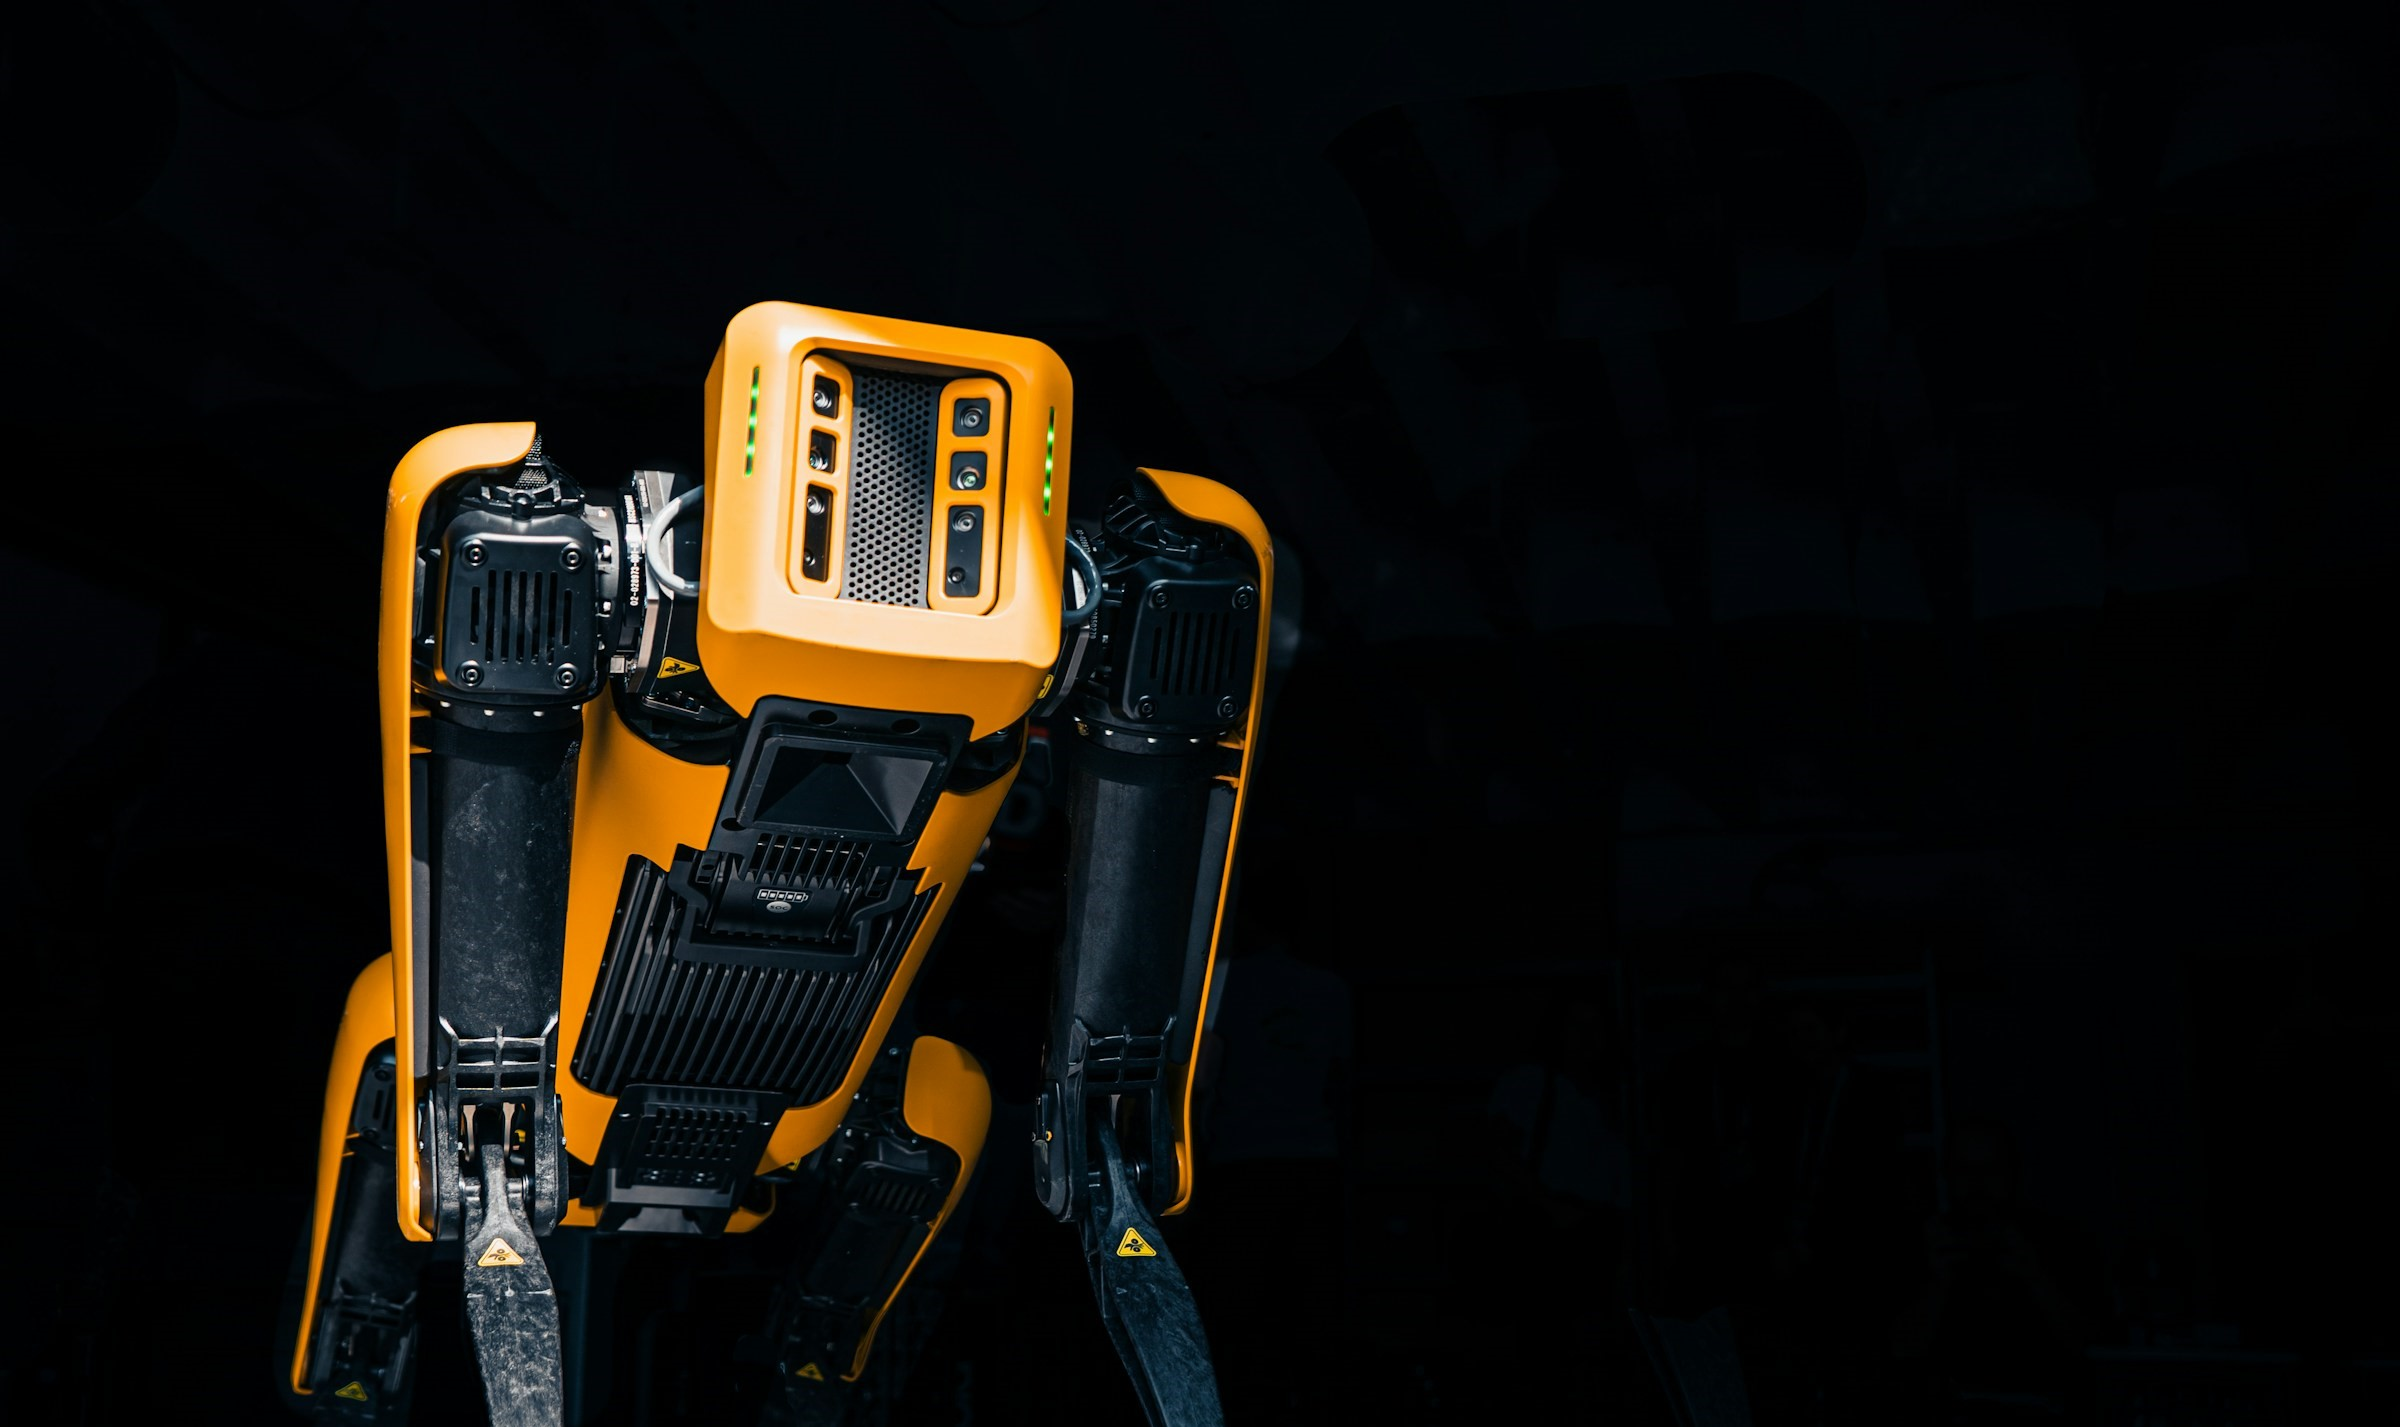
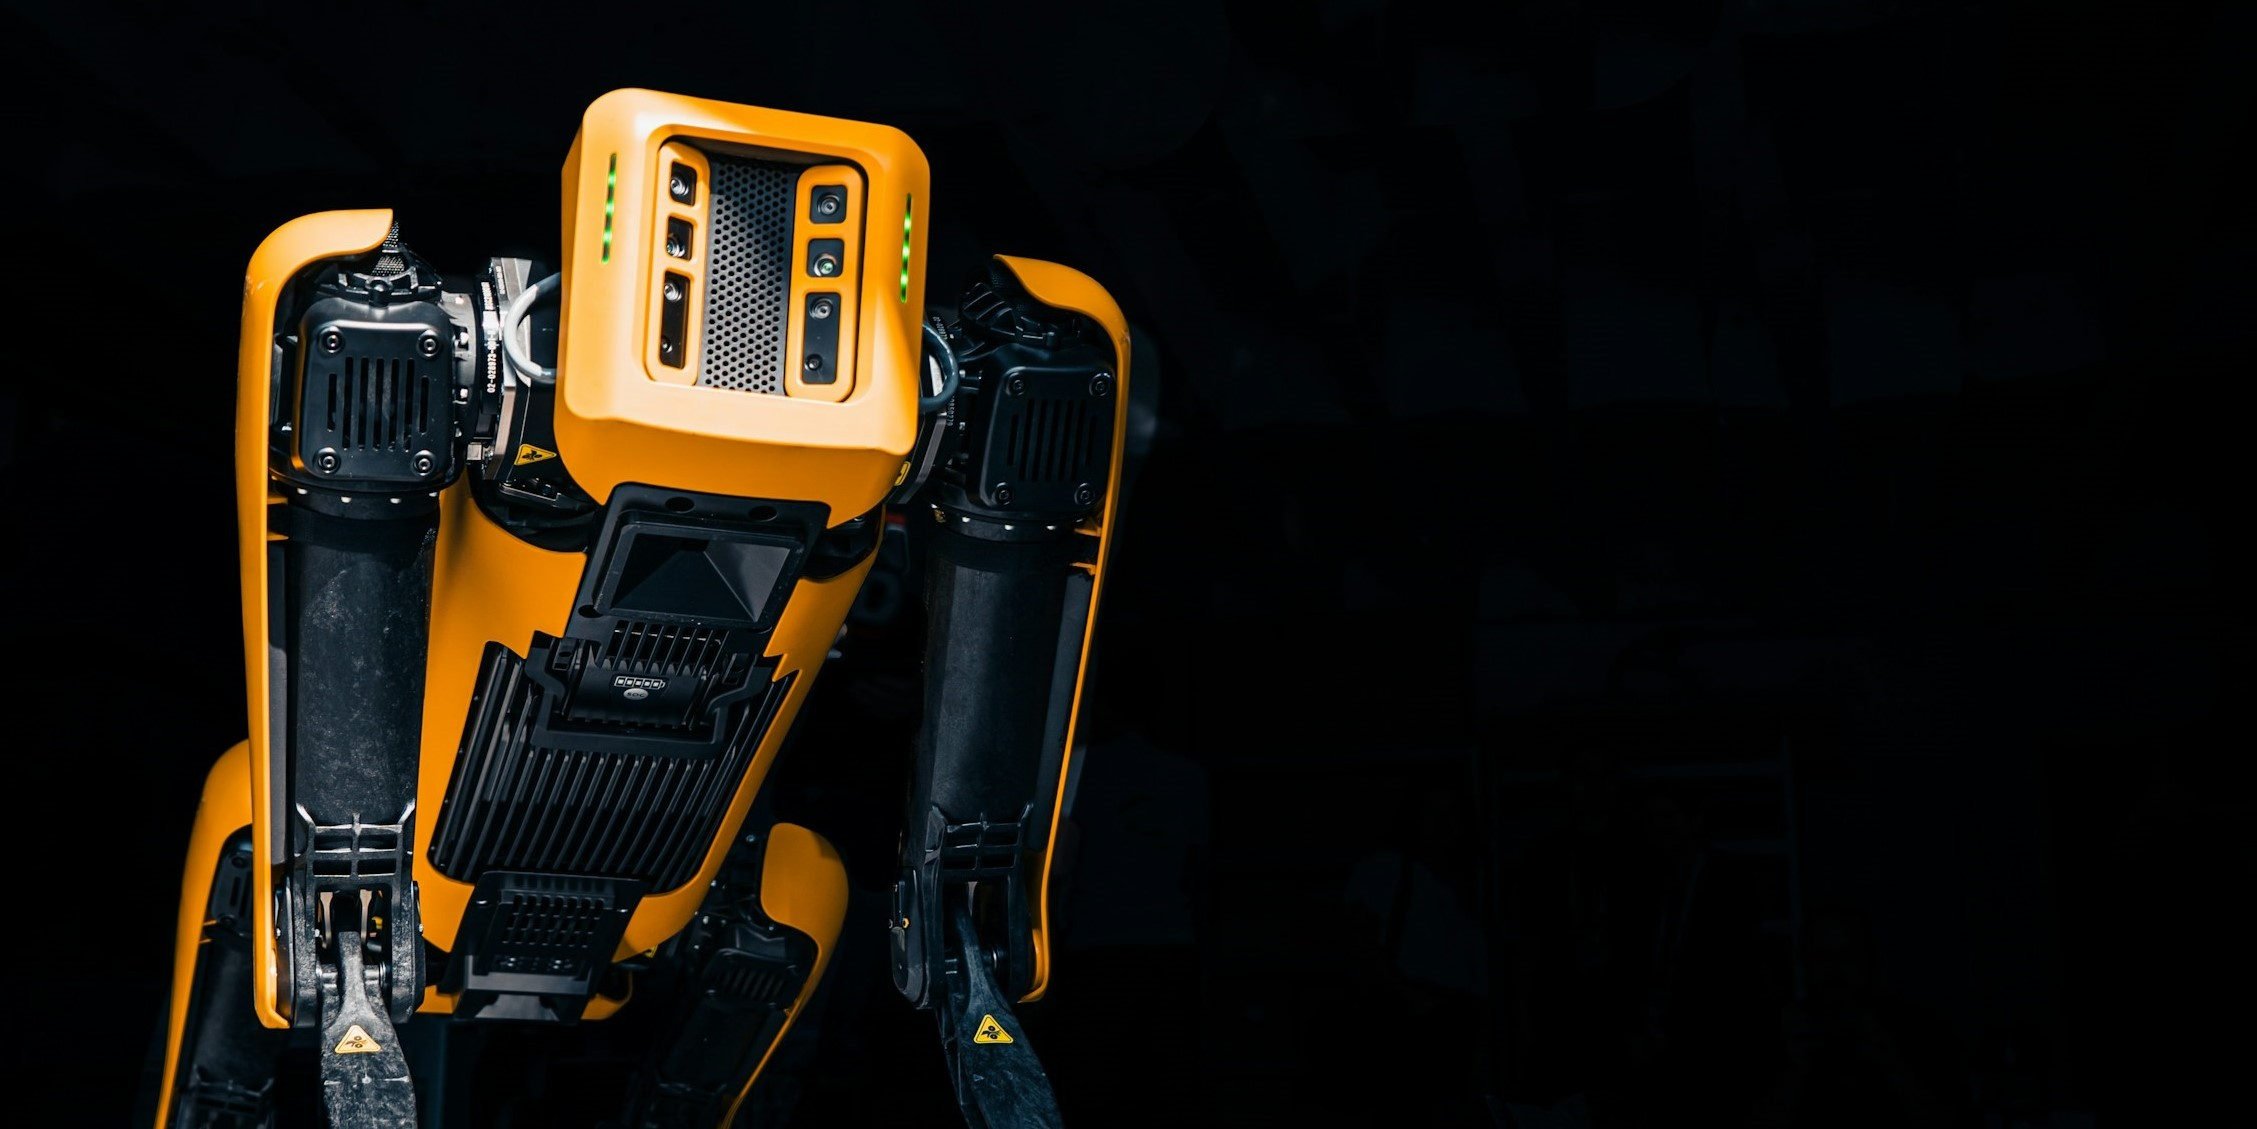
More updates on the website

Changed region(s): [[0.062, 0.062, 0.5583, 1.0]]

diff --git a/index.html b/index.html
@@ -4,7 +4,7 @@ layout: default
 
 <style>
     body {
-        background: linear-gradient(rgba(0, 0, 0, 0.7), rgba(0, 0, 0, 0.7)), url('../img/spot2.jpg');
+        background: linear-gradient(rgba(0, 0, 0, 0.9), rgba(0, 0, 0, 0.85)), url('../img/spot4.jpg');
         background-repeat: no-repeat; 
         background-position: center;
         background-attachment: fixed;       
@@ -14,8 +14,7 @@ layout: default
     }
 
     .header {
-        padding-top: 20px;
-        text-align: left;
+        margin-top: 30px;
     }
 
     .name {
@@ -24,7 +23,7 @@ layout: default
     }
 
     .description {
-        font-size: 36px;
+        font-size: 28px;
         font-weight: inherit;
     }
 
@@ -33,7 +32,6 @@ layout: default
         height: 75px;
         display: flex;
         justify-content: center;
-        background-color: rgb(0, 0, 0);
         align-items: center;
         border-radius: 45%;
         color: white;
@@ -46,28 +44,62 @@ layout: default
         background-color: rgb(43, 43, 43);  
     }
 
-    @media(min-width:992px) {
-        .header {
-            padding-top: 20vh;
-            padding-bottom: 112px;    
-        }
-
-        span {
-            padding: 10px;
-            background-color: black;
-            border-radius: 15px;
-        }
+    .recent-work {
+        padding: 5px;
+        margin: 5px;
+        background-color: rgb(0, 0, 0);
     }
+
+    .card {
+        margin-top: 30px;
+        text-align: left;
+        color: rgb(0, 0, 0);
+    }
+
+    .card-header {
+        font-size: 18px;
+        font-weight: 400;
+        background-color: rgb(171, 171, 171);
+    }
+
+    .card-title {
+        margin-top: 12px;
+        font-weight: 400;
+    }
+    
+    .card-body {
+        font-weight: inherit;
+        background-color: rgb(202, 202, 202);
+    }
+
 </style>
 
-<div class="header">
-    <h1 class="name"><span>Hello, I'm Felipe</span></h1>
-    <h3 class="description"><span>Assistant Professor at Louisiana State University</span></h4>
-    <h3 class="description"><span>Researcher in Software Engineering and Robotics</span></h4>
+<hr>
+<div class="row header">
+    <div class="col-xl-8">
+        <h2 class="name"><span><i>Hello, I'm Felipe</i></span></h2>
+        <h3 class="description"><span>Assistant Professor at Louisiana State University</span></h3>
+        <h3 class="description"><span>Researcher in Software Engineering and Robotics</span></h3>
         <div class="d-flex">
             <a href="https://www.linkedin.com/in/fronchat/" target="_blank" class="social-button"><i class="fab fa-linkedin-in fa-2x"></i></a>
+            <a href="https://orcid.org/0000-0003-2104-6676" target="_blank" class="social-button"><i class="fa-brands fa-orcid fa-2x"></i></a>
             <a href="https://github.com/fronchetti/" target="_blank" class="social-button"><i class="fab fa-github fa-2x"></i></a>
             <a href="https://scholar.google.com/citations?hl=en&user=-6jIjG8AAAAJ" target="_blank" class="social-button"><i class="fa-brands fa-google-scholar fa-2x"></i></a>
-            <a href="mailto:ffronchetti@lsu.edu" target="_blank" class="social-button"><i class="far fa-envelope fa-2x"></i></a>
+            <a href="mailto:ffronchetti@lsu.edu" target="_blank" class="social-button"><i class="fa-solid fa-envelope fa-2x"></i></a>
         </div>
+    </div>
+</div>
+<hr>
+<div class="row header"></div>
+    <div class="col-xl-8">
+        <h3>Recent Publications</h3>
+        <div class="card border-dark mb-5" style="max-width: 22rem;">
+            <div class="card-header">ICSE 2024</div>
+            <div class="card-body">
+              <img src="img/duplo.jpg" class="img-fluid" alt="...">
+              <h4 class="card-title">Block-based Programming for Two-Armed Robots: A Comparative Study</h4>
+              <p>This paper presents Duplo, a block-based programming tool that enhances accessibility for non-professionals to program coordinated tasks in two-armed robots.</p>
+            </div>
+        </div>
+    </div>
 </div>

diff --git a/_site/index.html b/_site/index.html
@@ -44,7 +44,7 @@
     <div class="container-lg">
       <style>
     body {
-        background: linear-gradient(rgba(0, 0, 0, 0.7), rgba(0, 0, 0, 0.7)), url('../img/spot2.jpg');
+        background: linear-gradient(rgba(0, 0, 0, 0.9), rgba(0, 0, 0, 0.85)), url('../img/spot4.jpg');
         background-repeat: no-repeat; 
         background-position: center;
         background-attachment: fixed;       
@@ -54,8 +54,7 @@
     }
 
     .header {
-        padding-top: 20px;
-        text-align: left;
+        margin-top: 30px;
     }
 
     .name {
@@ -64,7 +63,7 @@
     }
 
     .description {
-        font-size: 36px;
+        font-size: 28px;
         font-weight: inherit;
     }
 
@@ -73,7 +72,6 @@
         height: 75px;
         display: flex;
         justify-content: center;
-        background-color: rgb(0, 0, 0);
         align-items: center;
         border-radius: 45%;
         color: white;
@@ -86,30 +84,64 @@
         background-color: rgb(43, 43, 43);  
     }
 
-    @media(min-width:992px) {
-        .header {
-            padding-top: 20vh;
-            padding-bottom: 112px;    
-        }
-
-        span {
-            padding: 10px;
-            background-color: black;
-            border-radius: 15px;
-        }
+    .recent-work {
+        padding: 5px;
+        margin: 5px;
+        background-color: rgb(0, 0, 0);
     }
+
+    .card {
+        margin-top: 30px;
+        text-align: left;
+        color: rgb(0, 0, 0);
+    }
+
+    .card-header {
+        font-size: 18px;
+        font-weight: 400;
+        background-color: rgb(171, 171, 171);
+    }
+
+    .card-title {
+        margin-top: 12px;
+        font-weight: 400;
+    }
+    
+    .card-body {
+        font-weight: inherit;
+        background-color: rgb(202, 202, 202);
+    }
+
 </style>
 
-<div class="header">
-    <h1 class="name"><span>Hello, I'm Felipe</span></h1>
-    <h3 class="description"><span>Assistant Professor at Louisiana State University</span></h4>
-    <h3 class="description"><span>Researcher in Software Engineering and Robotics</span></h4>
+<hr>
+<div class="row header">
+    <div class="col-xl-8">
+        <h2 class="name"><span><i>Hello, I'm Felipe</i></span></h2>
+        <h3 class="description"><span>Assistant Professor at Louisiana State University</span></h3>
+        <h3 class="description"><span>Researcher in Software Engineering and Robotics</span></h3>
         <div class="d-flex">
             <a href="https://www.linkedin.com/in/fronchat/" target="_blank" class="social-button"><i class="fab fa-linkedin-in fa-2x"></i></a>
+            <a href="https://orcid.org/0000-0003-2104-6676" target="_blank" class="social-button"><i class="fa-brands fa-orcid fa-2x"></i></a>
             <a href="https://github.com/fronchetti/" target="_blank" class="social-button"><i class="fab fa-github fa-2x"></i></a>
             <a href="https://scholar.google.com/citations?hl=en&user=-6jIjG8AAAAJ" target="_blank" class="social-button"><i class="fa-brands fa-google-scholar fa-2x"></i></a>
-            <a href="mailto:ffronchetti@lsu.edu" target="_blank" class="social-button"><i class="far fa-envelope fa-2x"></i></a>
+            <a href="mailto:ffronchetti@lsu.edu" target="_blank" class="social-button"><i class="fa-solid fa-envelope fa-2x"></i></a>
         </div>
+    </div>
+</div>
+<hr>
+<div class="row header"></div>
+    <div class="col-xl-8">
+        <h3>Recent Publications</h3>
+        <div class="card border-dark mb-5" style="max-width: 22rem;">
+            <div class="card-header">ICSE 2024</div>
+            <div class="card-body">
+              <img src="img/duplo.jpg" class="img-fluid" alt="...">
+              <h4 class="card-title">Block-based Programming for Two-Armed Robots: A Comparative Study</h4>
+              <p>This paper presents Duplo, a block-based programming tool that enhances accessibility for non-professionals to program coordinated tasks in two-armed robots.</p>
+            </div>
+        </div>
+    </div>
 </div>
 
     </div>

diff --git a/curriculum.html b/curriculum.html
@@ -17,11 +17,11 @@ layout: default
 <h3>Education</h3>
 <ul>
 <li>(2020 - 2024) Ph.D. in Engineering, Virginia Commonwealth University, Richmond, USA.</li>
-<p>Worked on: <i>Exploring end-user environments for the control and programming of collaborative robots</i> (<a target="_blank" href="https://scholarscompass.vcu.edu/etd/7785/">Read</a>)</p>
+<p>Worked on: <i>Exploring end-user environments for the control and programming of collaborative robots</i> (<a target="_blank" href="https://scholarscompass.vcu.edu/etd/7785/"><i>Read</i></a>)</p>
 <li>(2018 - 2023) M.Sc. in Computer Science, University of São Paulo, São Paulo, Brazil.</li>
-<p>Worked on: <i>A classification model of documentation relevant for newcomers in open-source projects</i> (<a target="_blank" href="https://dl.acm.org/doi/abs/10.1145/3611643.3616288/">Read</a>)</p>
+<p>Worked on: <i>A classification model of documentation relevant for newcomers in open-source projects</i> (<a target="_blank" href="https://dl.acm.org/doi/abs/10.1145/3611643.3616288/"><i>Read</i></a>)</p>
 <li>(2013 - 2017) B.Sc. in Computer Science, Federal University of Technology - Paraná, Campo Mourão, Brazil.</li>
-<p>Worked on: <i>An exploratory study on onboarding factors in open-source projects</i> (<a target="_blank" href="https://link.springer.com/chapter/10.1007/978-3-030-20883-7_9/">Read</a>)</p>
+<p>Worked on: <i>An exploratory study on onboarding factors in open-source projects</i> (<a target="_blank" href="https://link.springer.com/chapter/10.1007/978-3-030-20883-7_9/"><i>Read</i></a>)</p>
 <li>(2011 - 2012) Technician in Occupational Health and Safety, National Service for Industrial Training, Cianorte, Brazil.</li>
 </ul>
 
@@ -43,7 +43,12 @@ layout: default
 <li>(2015) Research Scholarship, Brazilian National Council for Scientific and Technological Development (CNPq).</li>
 </ul>
 
-<p>You can also learn more accessing my <a href="files/Curriculum_Vitae.pdf" target="_blank">curriculum vitae</a>.</p>
-
+<h3>Downloads</h3>
+<ul>
+    <li><a href="files/Curriculum_Vitae.pdf" target="_blank"><i>Curriculum Vitae</i></a></li>
+    <li><a href="files/Research_Statement.pdf" target="_blank"><i>Research Statement</i></a></li>
+    <li><a href="files/Teaching_Statement.pdf" target="_blank"><i>Teaching Statement</i></a></li>
+    <li><a href="files/Service_Statement.pdf" target="_blank"><i>Service Statement</i></a></li>
+</ul>
 
 <hr>

diff --git a/_site/curriculum.html b/_site/curriculum.html
@@ -58,11 +58,11 @@
 <h3>Education</h3>
 <ul>
 <li>(2020 - 2024) Ph.D. in Engineering, Virginia Commonwealth University, Richmond, USA.</li>
-<p>Worked on: <i>Exploring end-user environments for the control and programming of collaborative robots</i> (<a target="_blank" href="https://scholarscompass.vcu.edu/etd/7785/">Read</a>)</p>
+<p>Worked on: <i>Exploring end-user environments for the control and programming of collaborative robots</i> (<a target="_blank" href="https://scholarscompass.vcu.edu/etd/7785/"><i>Read</i></a>)</p>
 <li>(2018 - 2023) M.Sc. in Computer Science, University of São Paulo, São Paulo, Brazil.</li>
-<p>Worked on: <i>A classification model of documentation relevant for newcomers in open-source projects</i> (<a target="_blank" href="https://dl.acm.org/doi/abs/10.1145/3611643.3616288/">Read</a>)</p>
+<p>Worked on: <i>A classification model of documentation relevant for newcomers in open-source projects</i> (<a target="_blank" href="https://dl.acm.org/doi/abs/10.1145/3611643.3616288/"><i>Read</i></a>)</p>
 <li>(2013 - 2017) B.Sc. in Computer Science, Federal University of Technology - Paraná, Campo Mourão, Brazil.</li>
-<p>Worked on: <i>An exploratory study on onboarding factors in open-source projects</i> (<a target="_blank" href="https://link.springer.com/chapter/10.1007/978-3-030-20883-7_9/">Read</a>)</p>
+<p>Worked on: <i>An exploratory study on onboarding factors in open-source projects</i> (<a target="_blank" href="https://link.springer.com/chapter/10.1007/978-3-030-20883-7_9/"><i>Read</i></a>)</p>
 <li>(2011 - 2012) Technician in Occupational Health and Safety, National Service for Industrial Training, Cianorte, Brazil.</li>
 </ul>
 
@@ -84,8 +84,13 @@
 <li>(2015) Research Scholarship, Brazilian National Council for Scientific and Technological Development (CNPq).</li>
 </ul>
 
-<p>You can also learn more accessing my <a href="files/Curriculum_Vitae.pdf" target="_blank">curriculum vitae</a>.</p>
-
+<h3>Downloads</h3>
+<ul>
+    <li><a href="files/Curriculum_Vitae.pdf" target="_blank"><i>Curriculum Vitae</i></a></li>
+    <li><a href="files/Research_Statement.pdf" target="_blank"><i>Research Statement</i></a></li>
+    <li><a href="files/Teaching_Statement.pdf" target="_blank"><i>Teaching Statement</i></a></li>
+    <li><a href="files/Service_Statement.pdf" target="_blank"><i>Service Statement</i></a></li>
+</ul>
 
 <hr>
     </div>

diff --git a/research.html b/research.html
@@ -35,7 +35,7 @@ layout: default
 </ul>
 
 <h3>Selected papers</h3>
-<p>I keep my papers listed on <a target="_blank" href="https://scholar.google.com/citations?hl=en&user=-6jIjG8AAAAJ">Google Scholar</a>. For those interested in learning more about my work, here is a list of selected articles:</p>
+<p>I keep my papers listed on <a target="_blank" href="https://scholar.google.com/citations?hl=en&user=-6jIjG8AAAAJ"><i>Google Scholar</i></a>. For those interested in learning more about my work, here is a list of selected articles:</p>
 <ul class="custom-list">
     <li>Dias, Luiz Felipe, Igor Steinmacher, Gustavo Pinto, Daniel Alencar Da Costa, and Marco Gerosa. "How does the shift to GitHub impact project collaboration?." In 2016 IEEE International Conference on Software Maintenance and Evolution, pp. 473-477. IEEE, 2016.</li>
     <li>Pinto, Gustavo, Igor Steinmacher, Luiz Felipe Dias, and Marco Gerosa. "On the challenges of open-sourcing proprietary software projects." Empirical Software Engineering 23 (2018): 3221-3247.</li>

diff --git a/_site/research.html b/_site/research.html
@@ -76,7 +76,7 @@
 </ul>
 
 <h3>Selected papers</h3>
-<p>I keep my papers listed on <a target="_blank" href="https://scholar.google.com/citations?hl=en&user=-6jIjG8AAAAJ">Google Scholar</a>. For those interested in learning more about my work, here is a list of selected articles:</p>
+<p>I keep my papers listed on <a target="_blank" href="https://scholar.google.com/citations?hl=en&user=-6jIjG8AAAAJ"><i>Google Scholar</i></a>. For those interested in learning more about my work, here is a list of selected articles:</p>
 <ul class="custom-list">
     <li>Dias, Luiz Felipe, Igor Steinmacher, Gustavo Pinto, Daniel Alencar Da Costa, and Marco Gerosa. "How does the shift to GitHub impact project collaboration?." In 2016 IEEE International Conference on Software Maintenance and Evolution, pp. 473-477. IEEE, 2016.</li>
     <li>Pinto, Gustavo, Igor Steinmacher, Luiz Felipe Dias, and Marco Gerosa. "On the challenges of open-sourcing proprietary software projects." Empirical Software Engineering 23 (2018): 3221-3247.</li>

diff --git a/_site/css/default.css b/_site/css/default.css
@@ -106,7 +106,7 @@ hr {
     }
     
     h4 {
-        font-size: 14px;
+        font-size: 18px;
     }
     
     a {

diff --git a/css/default.css b/css/default.css
@@ -106,7 +106,7 @@ hr {
     }
     
     h4 {
-        font-size: 14px;
+        font-size: 18px;
     }
     
     a {
